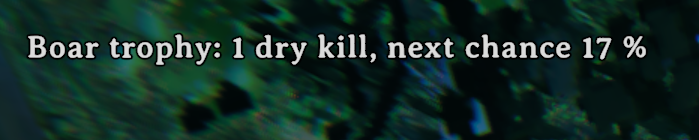
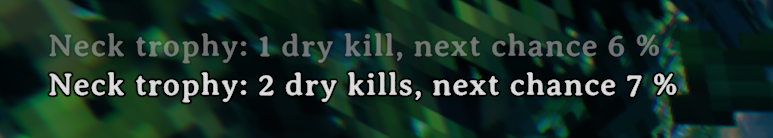
TrophyAssister: use neck pity screenshot showing the chance rising

diff --git a/TrophyAssister/README.md b/TrophyAssister/README.md
@@ -7,7 +7,7 @@ likely ("pity"). When the trophy drops, the counter for that creature resets.
 
 After each kill without a trophy, a message shows your progress:
 
-![Message after a kill: Boar trophy: 1 dry kill, next chance 17 %](https://raw.githubusercontent.com/Koen-H/valheim-mods/main/TrophyAssister/screenshots/pity-progress.png)
+![Messages after two kills: Neck trophy 1 dry kill, next chance 6 %, then 2 dry kills, next chance 7 %](https://raw.githubusercontent.com/Koen-H/valheim-mods/main/TrophyAssister/screenshots/pity-progress.png)
 
 ![Trophies tab showing the next-drop chance under each trophy, with undiscovered trophies hidden behind question marks](https://raw.githubusercontent.com/Koen-H/valheim-mods/main/TrophyAssister/screenshots/trophies-tab.png)
 
